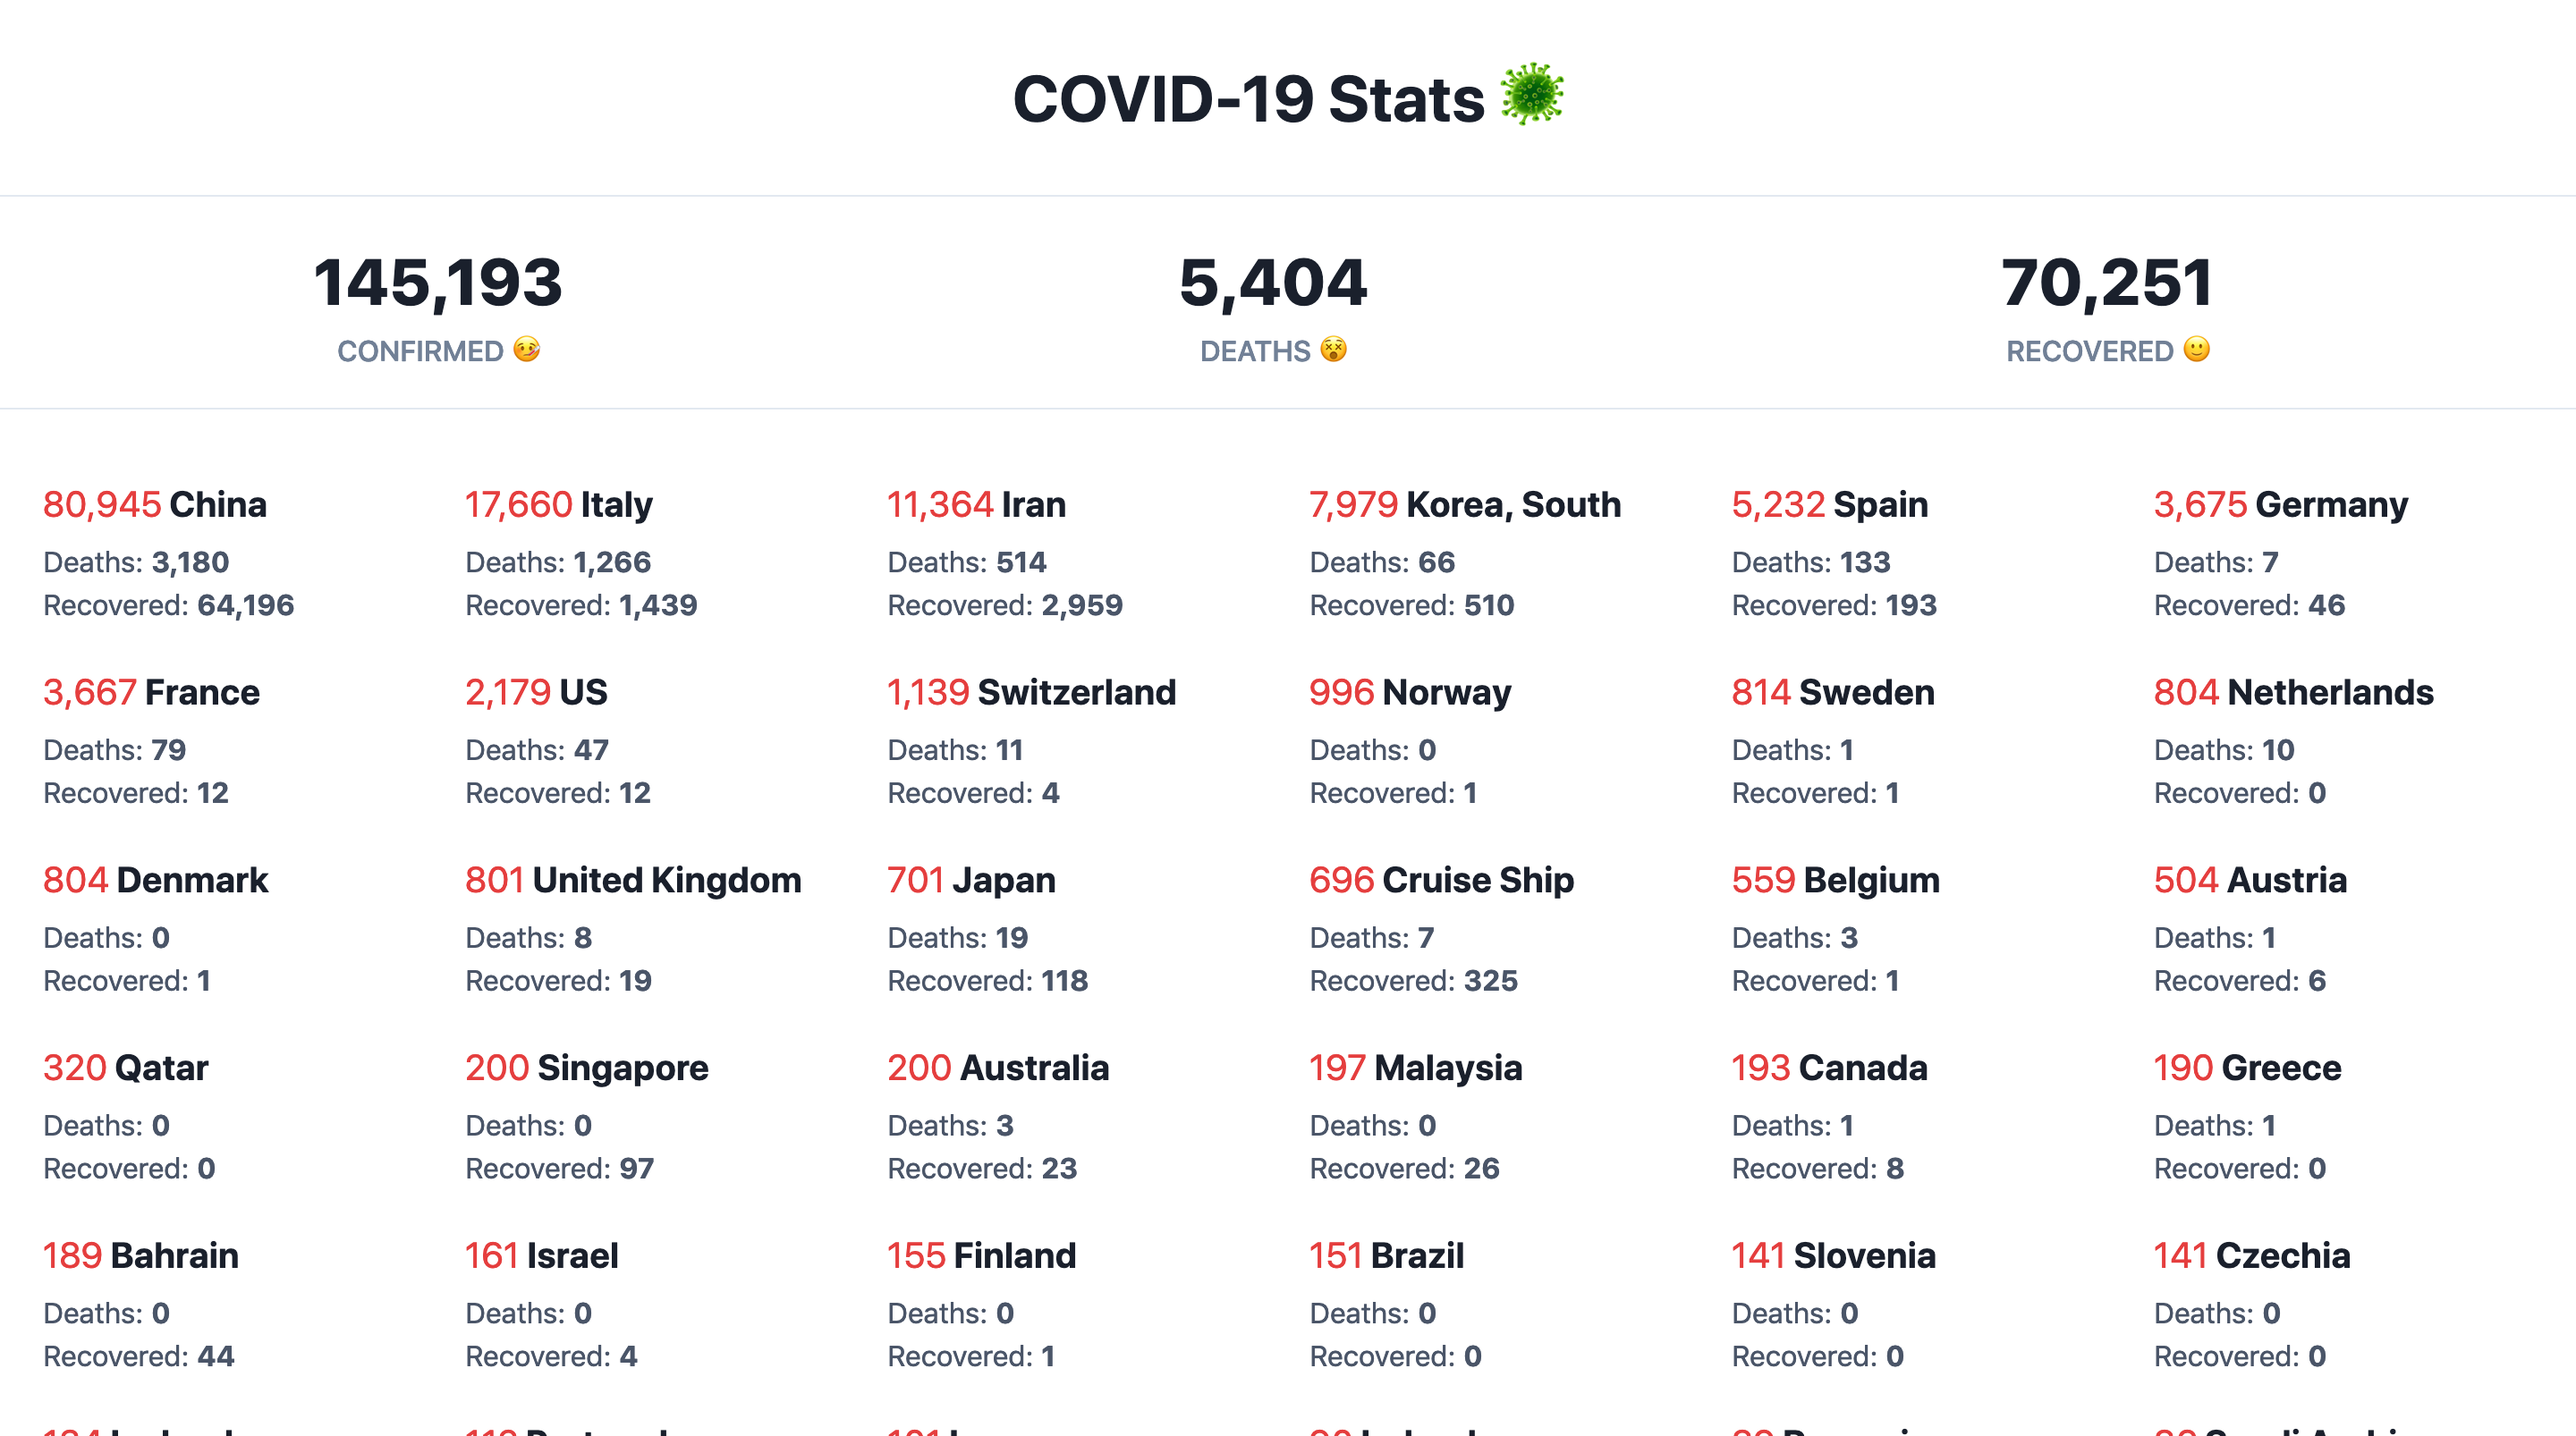
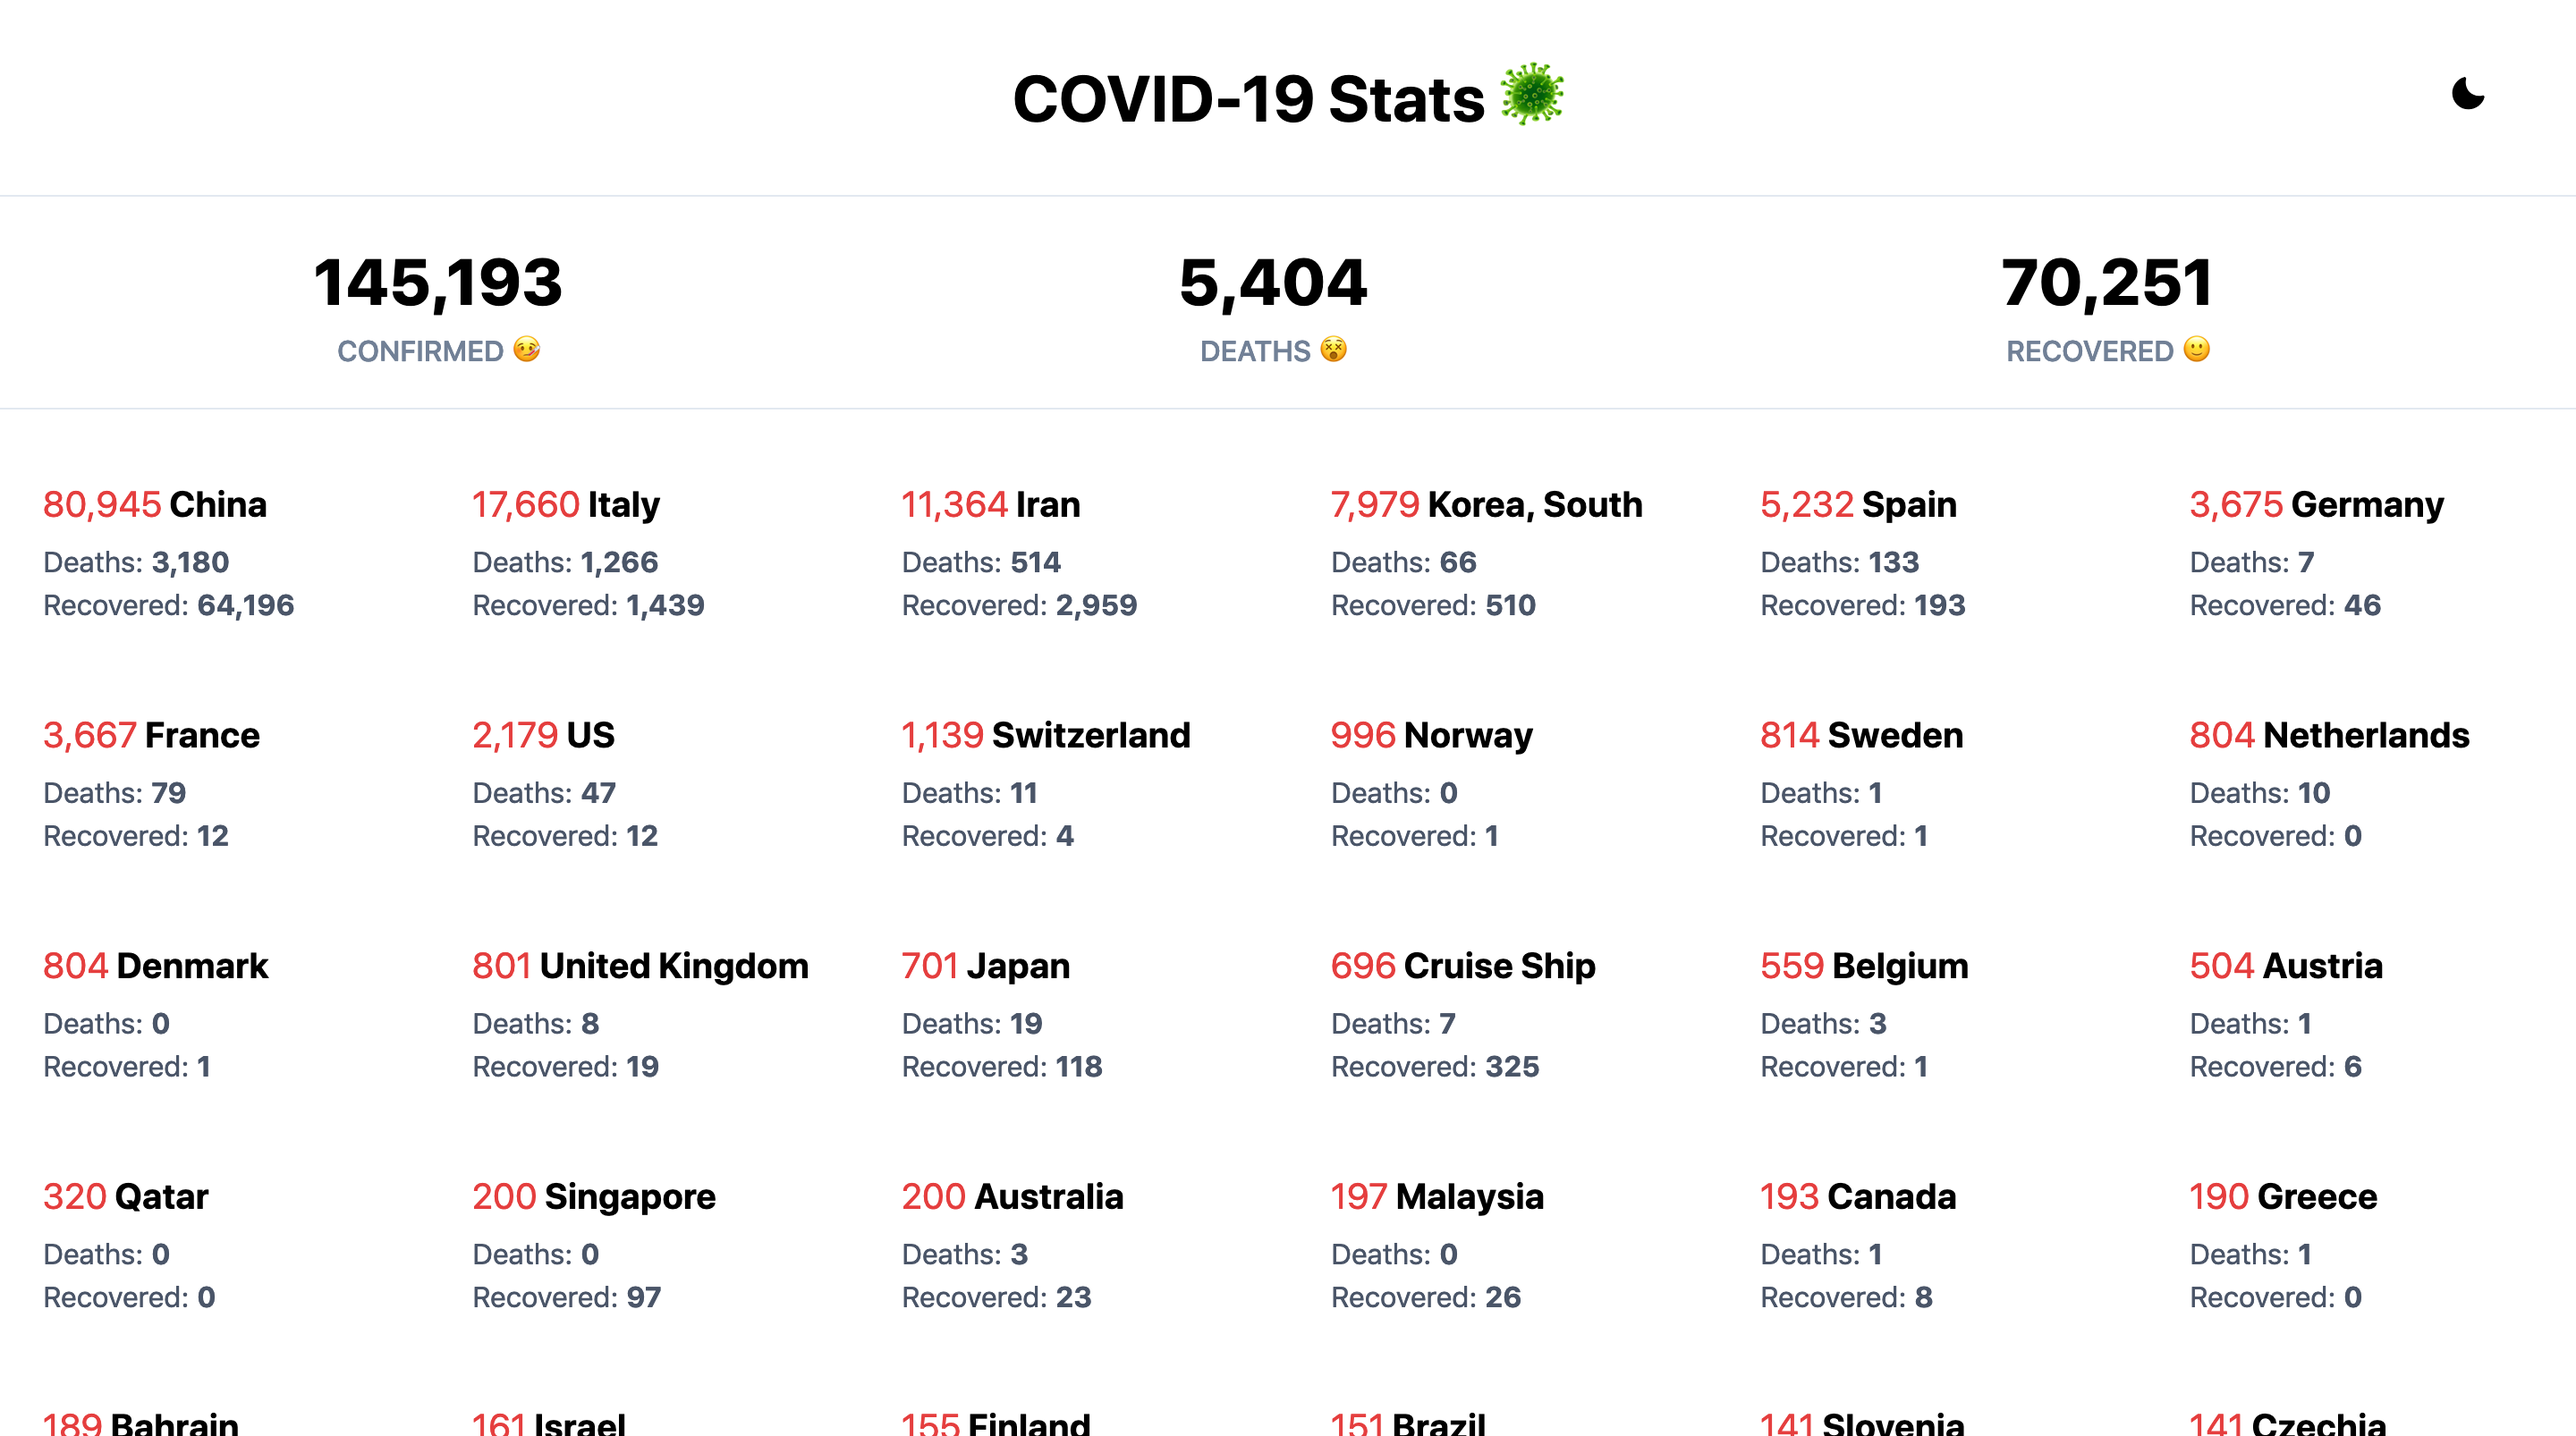
refactor + dark theme

diff --git a/components/stats.js b/components/stats.js
@@ -1,3 +1,5 @@
+import CountUp from "react-countup";
+
 import {
   Stat,
   StatLabel,
@@ -7,8 +9,6 @@ import {
   StatGroup,
   Box
 } from "@chakra-ui/core";
-
-import CountUp from "react-countup";
 
 const Stats = props => {
   return (
@@ -23,7 +23,7 @@ const Stats = props => {
       <StatGroup p={5}>
         <Stat>
           <StatNumber fontSize="4xl" fontWeight={800}>
-            <CountUp separator="," end={props.data.confirmed} />
+            <CountUp separator="," end={props.metrics.confirmed} />
           </StatNumber>
           <StatLabel color="gray.500" fontSize="md">
             Confirmed 🤒
@@ -31,7 +31,7 @@ const Stats = props => {
         </Stat>
         <Stat>
           <StatNumber fontSize="4xl" fontWeight={800}>
-            <CountUp separator="," end={props.data.deaths} />
+            <CountUp separator="," end={props.metrics.deaths} />
           </StatNumber>
           <StatLabel color="gray.500" fontSize="md">
             Deaths 😵
@@ -39,7 +39,7 @@ const Stats = props => {
         </Stat>
         <Stat>
           <StatNumber fontSize="4xl" fontWeight={800}>
-            <CountUp separator="," end={props.data.recovered} />
+            <CountUp separator="," end={props.metrics.recovered} />
           </StatNumber>
           <StatLabel color="gray.500" fontSize="md">
             Recovered 🙂

diff --git a/components/footer.js b/components/footer.js
@@ -1,10 +1,10 @@
 import { Box, Text, Link } from "@chakra-ui/core";
 
-const Footer = () => {
+const Footer = props => {
   return (
     <>
-      <Box p={5}>
-        <Text textAlign="right">
+      <Box p={5} textAlign='right' lineHeight={1.8} fontSize='xs'>
+        <Text>
           Made with{" "}
           <Text color="red.500" as="span">
             ♥
@@ -14,7 +14,7 @@ const Footer = () => {
             Diego Peralta
           </Link>
         </Text>
-        <Text textAlign="right">
+        <Text>
           Hosted on{" "}
           <Link href="//zeit.co" isExternal>
             Zeit &#9650;
@@ -28,14 +28,18 @@ const Footer = () => {
             Chakra UI
           </Link>
         </Text>
-        <Text textAlign="right">
+        <Text>
           <Link
             href="https://covid2019-api.herokuapp.com/v2/current"
             color="blue.600"
             isExternal
           >
             API Data Source
-          </Link>
+          </Link>{" "}
+          &mdash; Latest updated:{" "}
+          <Text as="mark" px={2} py={1}>
+            {props.latest_updated}
+          </Text>
         </Text>
       </Box>
     </>

diff --git a/pages/index.js b/pages/index.js
@@ -1,6 +1,6 @@
 import fetch from "isomorphic-unfetch";
-import { Heading } from "@chakra-ui/core";
 
+import Layout from "../components/layout";
 import Stats from "../components/stats";
 import Countries from "../components/countries";
 import Footer from "../components/footer";
@@ -12,14 +12,11 @@ Number.prototype.format = function(n, x) {
 
 const Home = props => {
   return (
-    <>
-      <Heading textAlign="center" my={8}>
-        COVID-19 Stats 🦠
-      </Heading>
-      <Stats data={props.total.data} />
-      <Countries data={props.current.data} />
-      <Footer />
-    </>
+    <Layout>
+      <Stats metrics={props.total.data} />
+      <Countries countries_list={props.current.data} />
+      <Footer latest_updated={props.current.dt} />
+    </Layout>
   );
 };
 
@@ -30,7 +27,7 @@ Home.getInitialProps = async function() {
     "https://covid2019-api.herokuapp.com/v2/current"
   );
   const current = await query_current.json();
-
+  
   const query_total = await fetch(
     "https://covid2019-api.herokuapp.com/v2/total"
   );

diff --git a/components/layout.js b/components/layout.js
@@ -1,0 +1,45 @@
+import {
+  Box,
+  Flex,
+  IconButton,
+  Heading,
+  useColorMode
+} from "@chakra-ui/core";
+
+const Layout = ({children}) => {
+  const {
+    colorMode,
+    toggleColorMode
+  } = useColorMode();
+  const bg = {
+    light: "white",
+    dark: "gray.800"
+  };
+  const color = {
+    light: "black",
+    dark: "white"
+  };
+  return (
+    <Box bg={bg[colorMode]} color={color[colorMode]}>
+      <Flex alignItems="center" justifyContent="space-between" px={8}>
+        <Heading mx="auto" textAlign="center" my={8}>
+          COVID-19 Stats 🦠
+        </Heading>
+        <IconButton
+          aria-label={`Switch to ${
+            colorMode === "light" ? "dark" : "light"
+          } mode`}
+          variant="ghost"
+          color="current"
+          ml="2"
+          fontSize="20px"
+          onClick={toggleColorMode}
+          icon={colorMode === "light" ? "moon" : "sun"}
+        />
+      </Flex>
+      {children}
+    </Box>
+  );
+};
+
+export default Layout;

diff --git a/pages/_app.js b/pages/_app.js
@@ -1,6 +1,7 @@
 import {
   ThemeProvider,
-  CSSReset
+  CSSReset,
+  ColorModeProvider
 } from "@chakra-ui/core";
 
 import SEO from "../components/seo";
@@ -10,8 +11,10 @@ function App({ Component, pageProps }) {
   return (
     <ThemeProvider>
       <SEO />
-      <CSSReset />
-      <Component {...pageProps} />
+      <ColorModeProvider value="light">
+        <CSSReset />
+        <Component {...pageProps} />
+      </ColorModeProvider>
     </ThemeProvider>
   );
 }

diff --git a/components/countries.js b/components/countries.js
@@ -2,8 +2,8 @@ import { SimpleGrid, Box, Heading, Text } from "@chakra-ui/core";
 
 const Countries = props => {
   return (
-    <SimpleGrid columns={[2, 4, 6]} spacing={6} p={6} mt={4}>
-      {props.data.map((item, index) => (
+    <SimpleGrid columns={[2, 4, 6]} spacing={12} p={6} mt={4}>
+      {props.countries_list.map((item, index) => (
         <Box key={index}>
           <Heading size="md" mb={2}>
             <Text color="red.500" fontWeight="normal" as="span">
